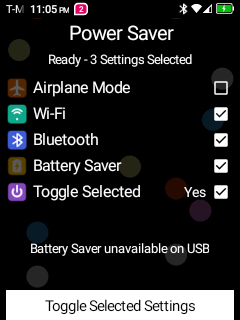
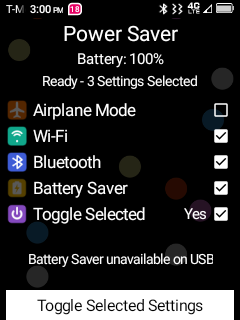
Release Power Saver v1.0.3

diff --git a/README.md b/README.md
@@ -4,7 +4,7 @@ A compact, D-pad-friendly Android utility for rooted TCL Flip 2 phones. Power Sa
 
 ![Power Saver running on a TCL Flip 2](docs/images/power-saver.png)
 
-![Version](https://img.shields.io/badge/version-1.0.2-blue)
+![Version](https://img.shields.io/badge/version-1.0.3-blue)
 ![Android](https://img.shields.io/badge/Android-11-green)
 ![License](https://img.shields.io/badge/license-MIT-lightgrey)
 
@@ -14,6 +14,7 @@ A compact, D-pad-friendly Android utility for rooted TCL Flip 2 phones. Power Sa
 - Airplane Mode powers off cellular service while restoring unselected Wi-Fi and Bluetooth radios to their prior state.
 - Restore selected Wi-Fi and Bluetooth radios to their normal on state on the reverse toggle.
 - Arm selected Battery Saver while USB/external power is connected, then activate it automatically when external power is removed.
+- Show the live battery percentage directly beneath the app title.
 - Update Airplane Mode, Wi-Fi, Bluetooth, and Battery Saver status live while the app is open, including changes made through Android's native settings screens.
 - Verify the requested system state and attempt rollback when verification fails.
 - Keypad and D-pad navigation designed for the TCL Flip 2's 240×320 display.
@@ -37,11 +38,11 @@ Review the source before granting root. The app accepts no command text, paths, 
 
 ## Install
 
-1. Download `PowerSaver-v1.0.2.apk` from the [v1.0.2 release](https://github.com/jameswagar/TCL-Flip-2-Power-Saver-Toggle/releases/tag/v1.0.2).
+1. Download `PowerSaver-v1.0.3.apk` from the [v1.0.3 release](https://github.com/jameswagar/TCL-Flip-2-Power-Saver-Toggle/releases/tag/v1.0.3).
 2. Transfer and install it:
 
    ```sh
-   adb install PowerSaver-v1.0.2.apk
+   adb install PowerSaver-v1.0.3.apk
    ```
 
 3. Open **Power Saver** and approve the Magisk Superuser request.
@@ -65,7 +66,7 @@ The build intentionally avoids Gradle. It requires:
 ./build.sh
 ```
 
-The APK is written to `dist/PowerSaver-v1.0.2.apk`.
+The APK is written to `dist/PowerSaver-v1.0.3.apk`.
 
 On the first build, the script creates a local signing keystore and a random signing password. Both are excluded by `.gitignore`. Preserve them securely if you want future builds to update an already-installed copy. You can instead provide:
 
@@ -82,7 +83,7 @@ Build tools/platforms can be overridden with `BUILD_TOOLS_VERSION` and `ANDROID_
 ./test.sh
 ```
 
-The host-side tests cover reversible Airplane Mode and radio planning, staged and active selections, individual/group interaction, charging and deferred Battery Saver behavior, shell construction and ordering, verification markers, and rollback construction.
+The host-side tests cover reversible Airplane Mode and radio planning, staged and active selections, individual/group interaction, charging and deferred Battery Saver behavior, battery-percentage formatting and layout guards, shell construction and ordering, verification markers, and rollback construction.
 
 ## Safety notes
 

diff --git a/CHANGELOG.md b/CHANGELOG.md
@@ -1,5 +1,12 @@
 # Changelog
 
+## 1.0.3 — 2026-07-31
+
+- Show the phone's live battery percentage directly beneath the **Power Saver** title.
+- Keep the title, battery percentage, and interaction-mode status evenly spaced on the 240×320 display.
+- Size the battery line from its rendered font metrics so the percentage is not clipped.
+- Refresh the public app screenshot from the verified 4058L interface.
+
 ## 1.0.2 — 2026-07-25
 
 - Add selectable Airplane Mode above Wi-Fi.
